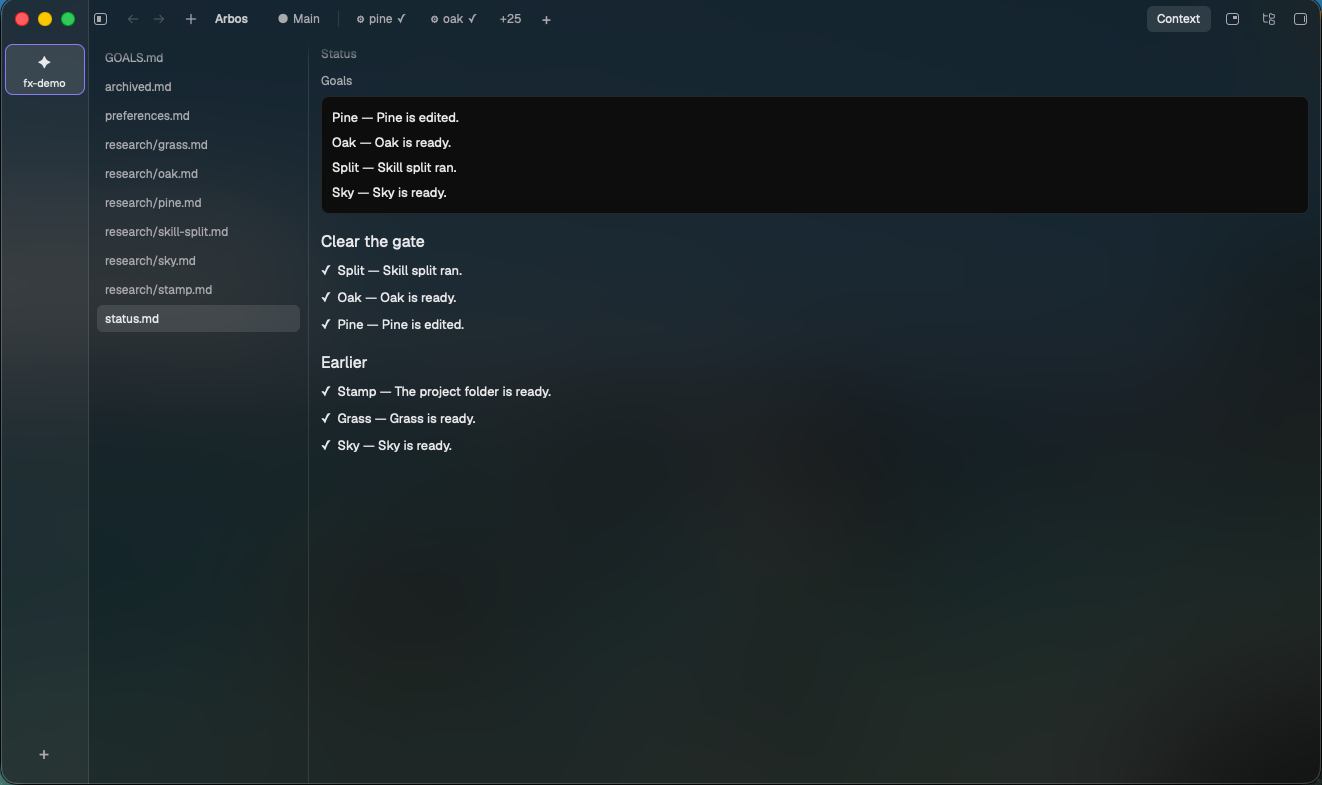
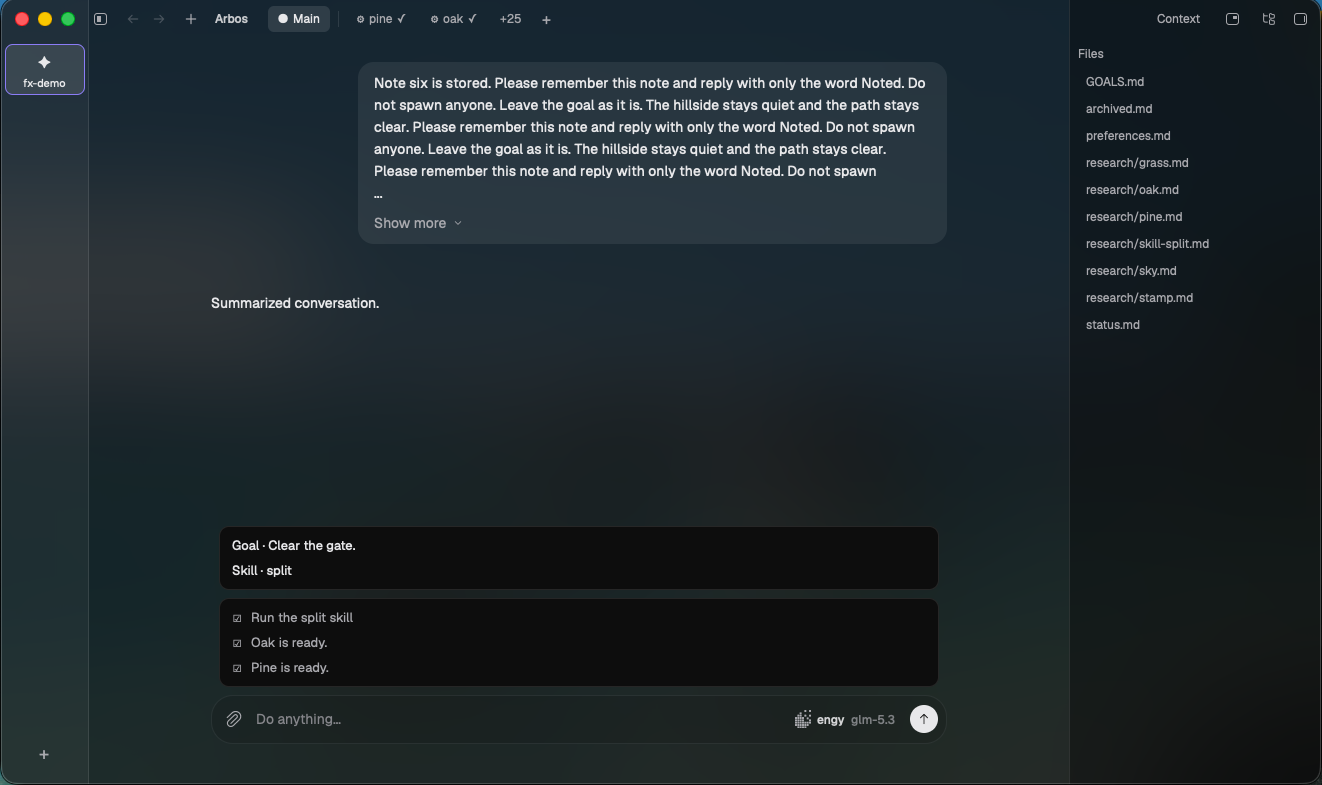
Show Main after an automatic summary.

diff --git a/README.md b/README.md
@@ -4,6 +4,6 @@ Arbos is a coding agent for one project. Talk to Main, watch workers, keep the w
 
 [Download Arbos for Mac](https://github.com/unarbos/arbos/releases/download/v0.2.112/Arbos-0.2.112-macos-arm64.dmg)
 
-![The project status, open in Context.](docs/images/arbos.png)
+![Main after a summary, with the goal still active.](docs/images/arbos.png)
 
 The left bar lists your projects. Each project has one Main chat. Main sends work to workers, and those workers report back into that chat. Press Command+ to open another chat in the same project. Those chats are tabs along the top. A checklist sits under Main. Context holds the notes the project shares.
